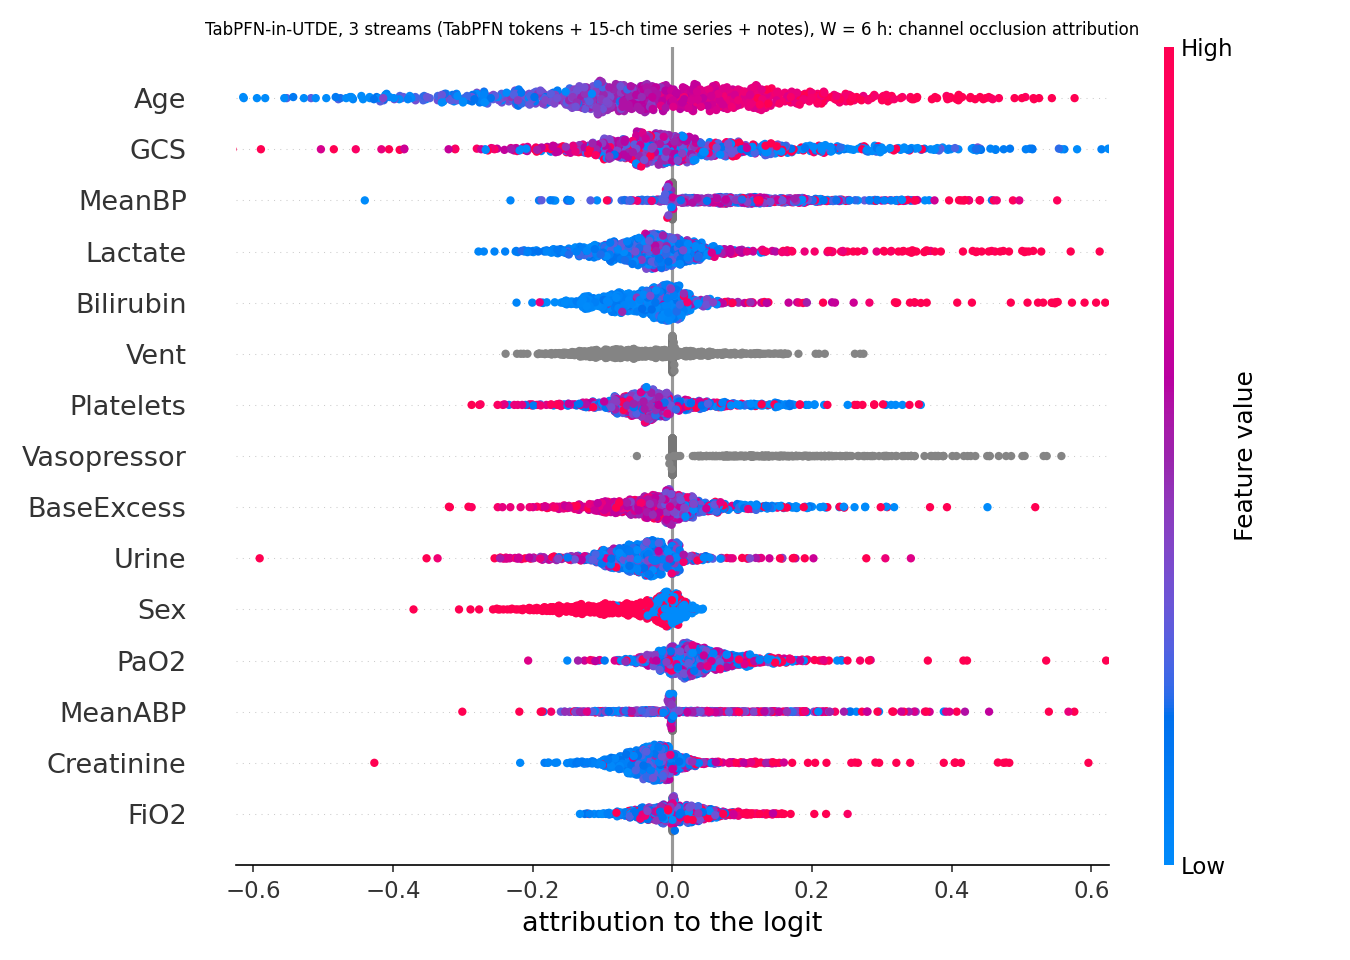
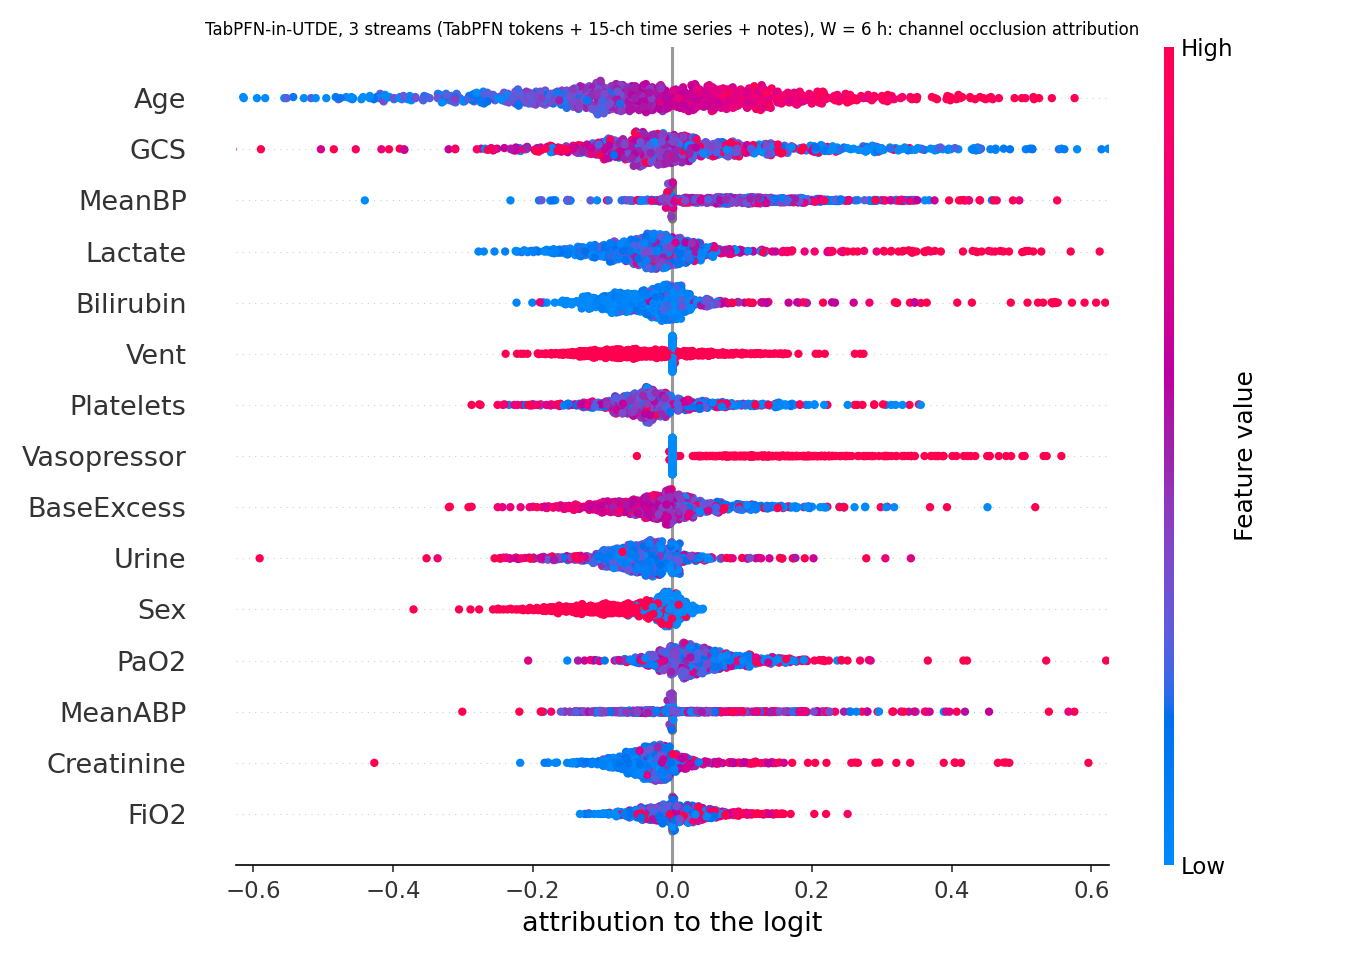
Unified beeswarms: 0/1 channels coloured by presence
Claude-Session: https://claude.ai/code/session_01HeU3rVXtZxeXxp219tyGbe

Changed region(s): [[0.28, 0.0625, 0.7778, 0.875], [0.6533, 0.125, 0.6844, 0.1562]]

diff --git a/scripts/12_unified_shap.py b/scripts/12_unified_shap.py
@@ -61,15 +61,18 @@ def main():
     dl = pd.Series({c: np.abs(full - LG(u[f'drop_{c}'])).mean() for c in chans}).sort_values(ascending=False)
     da = pd.Series({c: auc(u['full']) - auc(u[f'drop_{c}']) for c in chans}).reindex(dl.index)
     md += ['| channel | mean abs Δlogit when occluded | AUROC drop |', '|---|---|---|'] + [f'| {c} | {dl[c]:.3f} | {da[c]:+.3f} |' for c in dl.index] + ['']
+    BINARY = {'Vent', 'Vasopressor', 'Sex'}                       # presence channels: colour = present in the window (1) or not (0)
     Xm = np.full((len(test), len(chans)), np.nan)
     for i, d in enumerate(test):
         v = np.asarray(d['irg_ts'], float); m = np.asarray(d['irg_ts_mask']) == 1
         for j, c in enumerate(chans):
             k = ch.index(c)
-            if m[:, k].any():
+            if c in BINARY:
+                Xm[i, j] = float(v[m[:, k], k].max()) if m[:, k].any() else 0.0
+            elif m[:, k].any():
                 Xm[i, j] = v[m[:, k], k].mean()
     Au = np.column_stack([full - LG(u[f'drop_{c}']) for c in chans])
-    beeswarm(Au, Xm, chans, f'UTDE-SOFA W = {W} h: channel occlusion attribution (logit full − logit without channel); colour = channel mean (z) / value', OUT / f'utde_sofa_beeswarm_W{W}.png', 'attribution to the UTDE-SOFA logit')
+    beeswarm(Au, Xm, chans, f'UTDE-SOFA W = {W} h: channel occlusion attribution (logit full − logit without channel); colour = channel mean (z); 0/1 channels: present in window', OUT / f'utde_sofa_beeswarm_W{W}.png', 'attribution to the UTDE-SOFA logit')
 
     # ---- 3. late fusion TabPFN + UTDE-SOFA: stacker SHAP + feature-level beeswarm
     s_te, s_va = utde_run('_sofavars', W)
